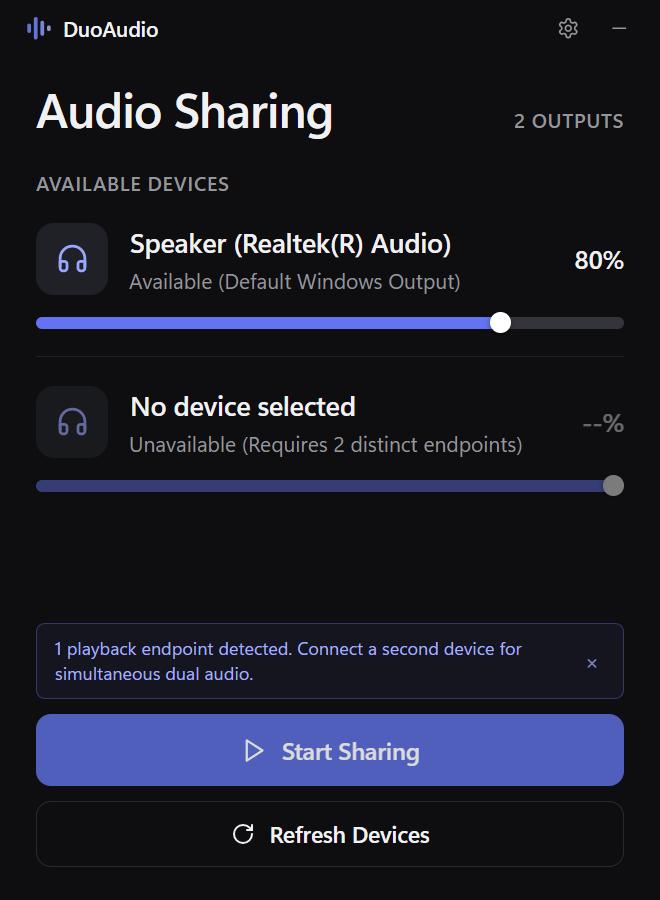
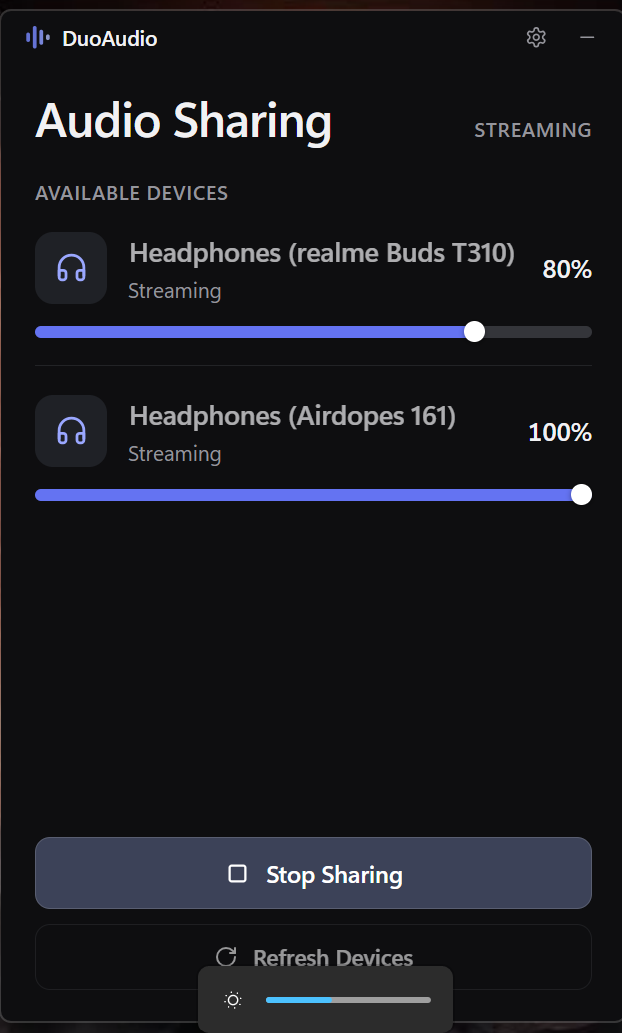
docs: Add README

diff --git a/README.md b/README.md
@@ -1,0 +1,117 @@
+<p align="center">
+  <img src="assets/DuoAudio-Readme-banner.png" alt="DuoAudio Banner" width="100%">
+</p>
+
+<p align="center">
+  <a href="https://github.com/Divyanshu0902/DuoAudio/releases/latest"><img src="https://img.shields.io/badge/Release-v1.0.2-5c6cdb?style=flat-square&logo=github&logoColor=white" alt="Latest Release"></a>
+  <img src="https://img.shields.io/badge/Platform-Windows%2011%20(x64)-0078d4?style=flat-square&logo=windows&logoColor=white" alt="Windows 11">
+  <img src="https://img.shields.io/badge/Core%20Audio-WASAPI-9aa7ff?style=flat-square" alt="WASAPI">
+  <img src="https://img.shields.io/badge/Engine-C%2B%2B%20%7C%20Node.js-1f2126?style=flat-square" alt="C++ and Node">
+  <img src="https://img.shields.io/badge/License-MIT-2ea44f?style=flat-square" alt="MIT License">
+</p>
+
+<p align="center">
+  <b>Simultaneously stream Windows 11 system audio to two pairs of Bluetooth earbuds or headphones with zero configuration.</b>
+</p>
+
+<p align="center">
+  <a href="https://github.com/Divyanshu0902/DuoAudio/releases/latest"><b>Download Installer (.exe)</b></a> •
+  <a href="#-key-features">Key Features</a> •
+  <a href="#-architecture--tech-stack">Architecture</a> •
+  <a href="#-quick-start">Quick Start</a> •
+  <a href="#-building-from-source">Build from Source</a>
+</p>
+
+---
+
+### The Problem
+
+Windows natively supports outputting system audio to only **one** default playback device at a time. If two people want to watch a movie on a flight or listen to music together using Bluetooth earbuds, Windows forces them to share a single earbud or wrestle with complex, laggy virtual audio cables.
+
+**DuoAudio** solves this with a lightweight, low-latency desktop utility that captures Windows system audio and duplicates it in real time to two independent output endpoints simultaneously.
+
+---
+
+### ✨ Key Features
+
+- 🎧 **Simultaneous Dual Output:** Stream audio from any app (YouTube, Spotify, VLC, games, browser) to two separate Bluetooth earbuds or headphones with low latency.
+- 🎯 **Zero-Configuration Routing:** No manual Windows Sound settings tinkering. DuoAudio automatically detects your devices, sets up routing in the background, and restores your default headphones when you stop.
+- 🤫 **Silent Room Protection:** Automatically silences your laptop speakers during streaming so audio plays strictly inside both listeners' earbuds.
+- 🎚 **Independent Volume Control:** Adjust volume levels for each listener independently right from the app with smooth software gain.
+- ⚡ **Low Latency & High Fidelity:** Direct 16-bit / 48 kHz linear PCM streaming built on Windows Core Audio (WASAPI).
+- 🌙 **Minimalist Dark UI:** Compact, distraction-free interface designed to run quietly in your Windows system tray.
+
+---
+
+<p align="center">
+  <img src="assets/screenshot-main.png" alt="DuoAudio Desktop App Interface" width="500px">
+</p>
+
+---
+
+### ⚙ Architecture & Tech Stack
+
+DuoAudio uses a decoupled, multi-process architecture to guarantee real-time audio throughput and UI responsiveness:
+
+```
+┌────────────────────────────────────────────────────────┐
+│                      Windows OS                        │
+│   (Media Players, Web Browsers, Games, System Sounds)   │
+└──────────────────────────┬─────────────────────────────┘
+                           │ WASAPI Loopback Capture
+                           ▼
+┌────────────────────────────────────────────────────────┐
+│            DuoAudio Native Audio Engine                │
+│                                                        │
+│  ┌────────────────────────┐  ┌──────────────────────┐  │
+│  │   Linear PCM Stream    │  │ Native C++ Helper    │  │
+│  │   Ring Buffer (16/48k) │  │ (IPolicyConfig COM)  │  │
+│  └───────────┬────────────┘  └──────────┬───────────┘  │
+└──────────────┼──────────────────────────┼──────────────┘
+               │ Independent Streams      │ Device Automation
+               ▼                          ▼
+    ┌──────────────────────┐   ┌──────────────────────┐
+    │  Output 1 (Earbuds)  │   │  Output 2 (Earbuds)  │
+    └──────────────────────┘   └──────────────────────┘
+```
+
+- **Audio Capture:** Windows Audio Session API (**WASAPI**) shared-mode loopback capture with silence suppression compensation.
+- **Endpoint Automation:** Standalone native **C++ helper** (`duoaudio_endpoint.exe`) using undocumented Windows Core Audio COM interfaces (`IPolicyConfig`, `IMMDeviceEnumerator`) for rapid, silent endpoint switching and volume control without antivirus false-positives.
+- **Buffer & Pacing:** Dedicated ring buffer pacing per output stream with clock-drift resilience.
+- **Desktop Shell:** **Electron 33** + **React 19** + **Vite**, communicating with the audio worker via structured IPC and graceful shutdown supervisors.
+
+---
+
+### 🚀 Quick Start
+
+1. **Download:** Grab the latest [`DuoAudio Setup 1.0.2.exe`](https://github.com/Divyanshu0902/DuoAudio/releases/latest).
+2. **Connect Earbuds:** Pair both Bluetooth earbuds/headphones with Windows.
+3. **Launch & Share:** Open DuoAudio, select your two devices in **Output 1** and **Output 2**, and click **▷ Start Sharing**.
+
+---
+
+### 🛠 Building from Source
+
+**Prerequisites:** Windows 11 (64-bit), Node.js (v22.x LTS), and MinGW GCC (`g++`).
+
+```powershell
+# 1. Clone the repository
+git clone https://github.com/Divyanshu0902/DuoAudio.git
+cd DuoAudio
+
+# 2. Install dependencies
+npm install
+
+# 3. Build UI bundle & compile native helper
+npm run build:ui
+scripts\build-native-helper.bat
+
+# 4. Run the desktop app
+npm start
+```
+
+---
+
+### 📄 License
+
+This project is licensed under the **MIT License** — see the [LICENSE](LICENSE) file for details.
